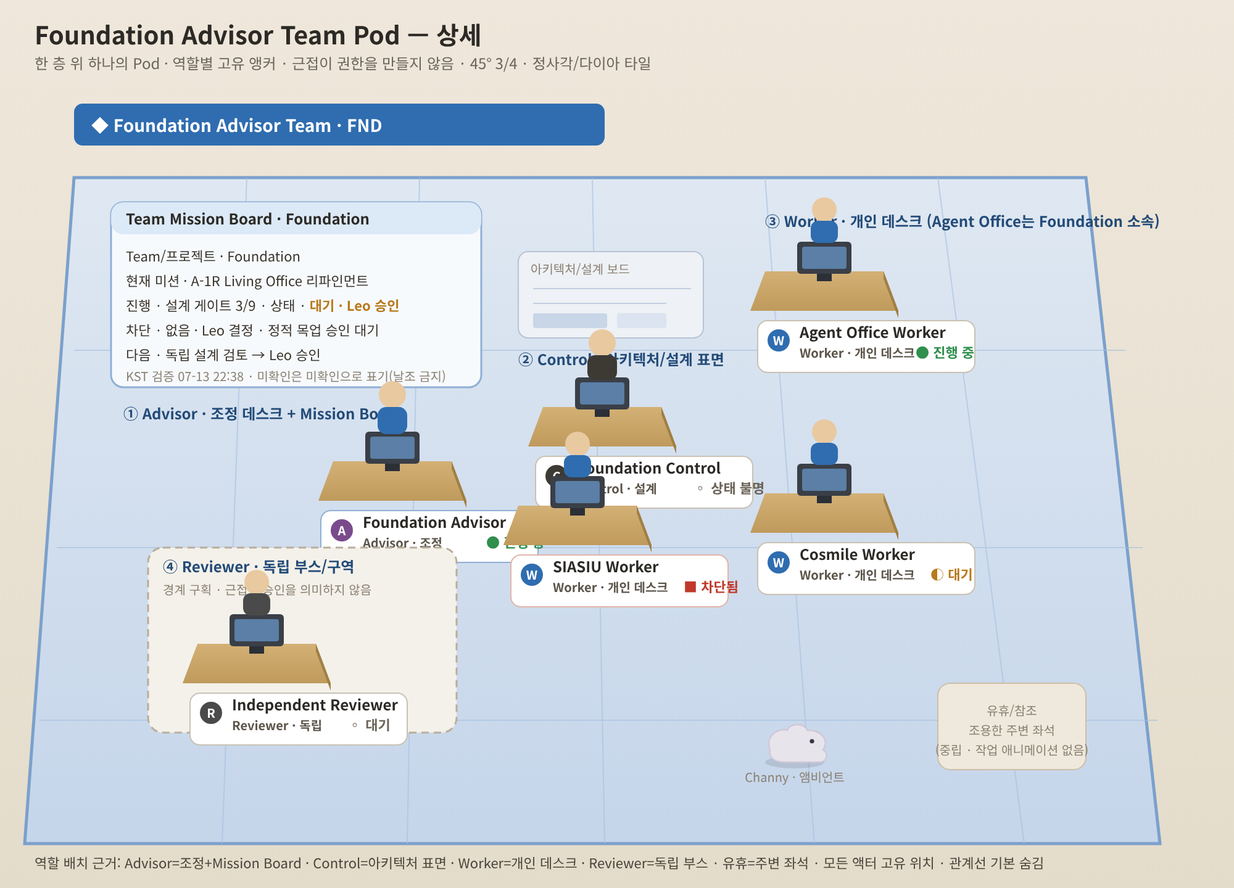
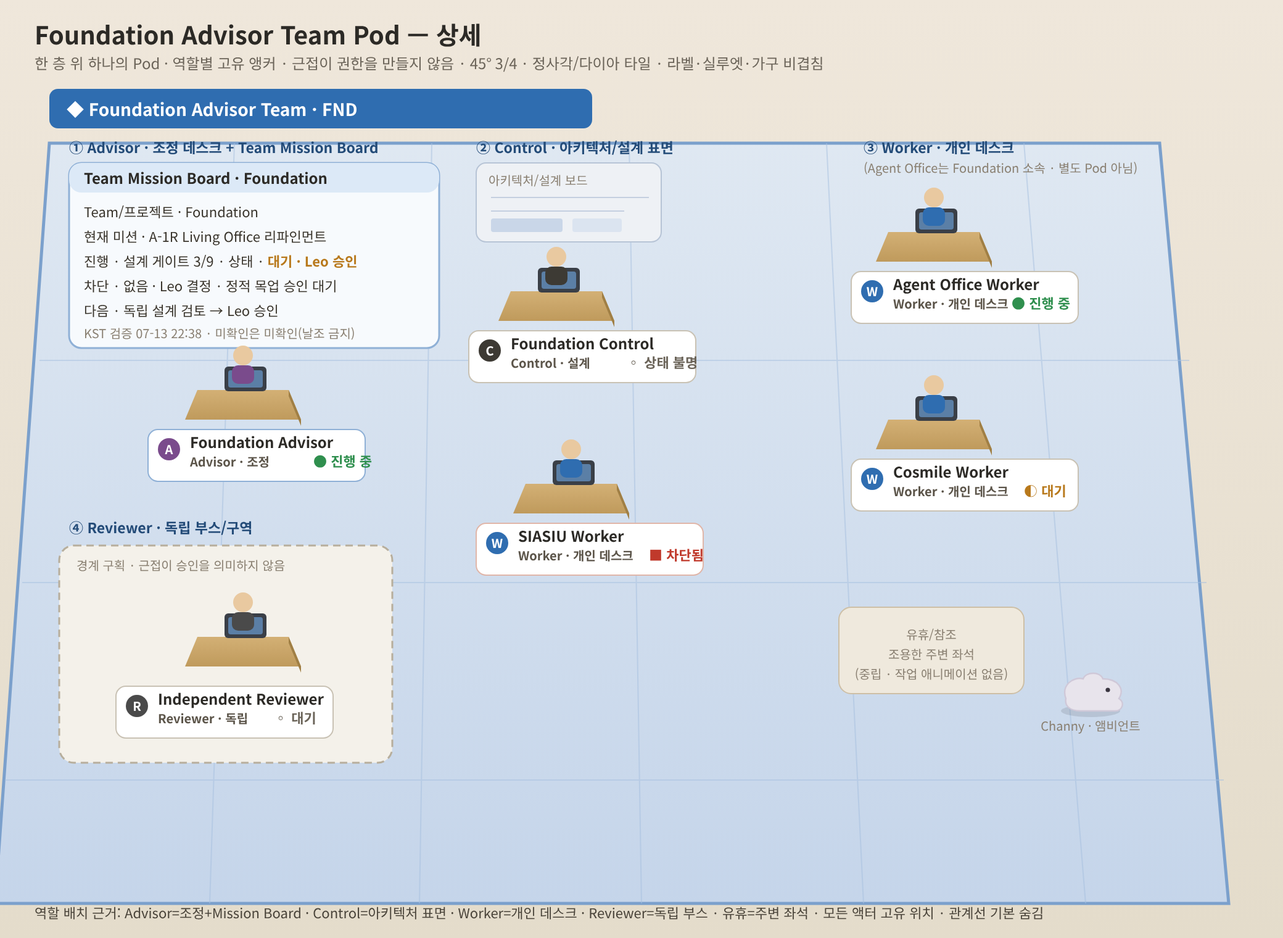
docs(a1r): narrow pre-review patch — Advisor findings A1R-ADV-01 + A1R-ADV-02 (design only)
A1R-ADV-01 (deferred-batch mapping): correct to the exact Founder activation table. A-1R scope now
= DCR-01 basic presentation + DCR-02 basic role animation (designed for later A-1R implementation
using only accepted fixture/evidence state, with neutral/reduced/static equivalents; NOT live
runtime-state integration). Real runtime-state-driven animation = Batch B; dynamic admission = C;
real Advisor delivery, live current-status response, Worker->Reviewer->Advisor movement, and
completion/handoff choreography = D; watchdog/retry = E; ambient sound = E-2. DELIVERY_DISABLED kept;
no runtime/implementation authority created. Updated register (rows + summary), product-experience
design doc, and FEATURE_INDEX.

A1R-ADV-02 (spatial collisions, only affected mockups): re-laid-out a1r-advisor-team-pod.svg into
three clear columns (Advisor+Mission Board / Control+SIASIU / Workers), anchor tags above zones not
over characters, all actor labels distinct from actor/monitor/desk silhouettes and neighbors,
Foundation Advisor clear of the Reviewer zone (canvas 1040x760). Re-laid-out a1r-full-office-mobile.svg
member lists to single-column full-width rows (name/role/state separated; Foundation Control and
Independent Reviewer no longer collide) and moved Channy to the empty lower floor. Re-rendered only
the two affected PNGs and inspected them at original size. Preserved all registry facts/actors/Team
[…]

diff --git a/docs/operations/AGENT_OFFICE_A1R_DEFERRED_CAPABILITY_REGISTER.md b/docs/operations/AGENT_OFFICE_A1R_DEFERRED_CAPABILITY_REGISTER.md
@@ -3,7 +3,7 @@
 Status: `CONTROL_STATIC_DEFERRED_REGISTER__PENDING_INDEPENDENT_DESIGN_REVIEW_THEN_LEO_MOCKUP_APPROVAL`
 Mode: `PRODUCT_EXPERIENCE_DESIGN_MODE`. Companion to the A-1R product-experience design and Founder UX contract. Base `58a484b`.
 
-**A-1R activates only role-specific basic presentation.** Every capability below is **deferred and gated**. A row's capability may not be built or enabled until its activation condition is met and Leo/GPT authorizes it. Forbidden current behavior is enforced now. No source/test/config change accompanies this register.
+**A-1R scope is role-specific basic presentation plus basic role animation** — the latter designed for the later A-1R Worker implementation using **only accepted fixture/evidence state** with **neutral/reduced/static equivalents**; this does **not** authorize live runtime-state integration (that is Batch B). Every other capability below is **deferred and gated** to the exact Founder activation table: dynamic admission = **C**; real Advisor delivery, live current-status response, Worker→Reviewer→Advisor movement, and completion/handoff choreography = **D**; operational Channy watchdog and bounded retry = **E**; ambient sound = **E-2**. A row's capability may not be built or enabled until its activation condition is met and Leo/GPT authorizes it. **`DELIVERY_DISABLED` is kept; this documentation correction creates no runtime or implementation authority.** Forbidden current behavior is enforced now. No source/test/config change accompanies this register.
 
 Legend — Current level: `NONE` (not present) · `STATIC_PRESENTATION` (neutral, non-operational visual only) · `DISABLED_SHELL` (truthful shell, action inert).
 
@@ -12,8 +12,8 @@ Legend — Current level: `NONE` (not present) · `STATIC_PRESENTATION` (neutral
 ## 1. Capability rows
 
 ### DCR-01 — Role-specific basic presentation
-- **Current level:** `STATIC_PRESENTATION` — **the only capability A-1R activates.**
-- **Deferred batch/reason:** not deferred (in scope); role anchors/desks/poses are static and evidence-neutral.
+- **Current level:** `STATIC_PRESENTATION` — **A-1R scope** (role anchors/desks/labels/poses), alongside DCR-02 basic role animation.
+- **Deferred batch/reason:** **A-1R** (in scope); role anchors/desks/poses are static and evidence-neutral.
 - **Early risk:** implying activity/authority from a pose. **Mitigation:** unknown = neutral; poses express only accepted role/state.
 - **Prerequisites:** committed registry + layout config.
 - **Owner:** Agent Office Worker (impl) under Advisor handoff after mockup approval.
@@ -22,14 +22,17 @@ Legend — Current level: `NONE` (not present) · `STATIC_PRESENTATION` (neutral
 - **Tests/evidence (later):** neutral-state rendering; no motion in reduced mode.
 - **Final authority:** Leo/GPT.
 
-### DCR-02 — Role animation (idle character motion)
-- **Current level:** `NONE`. **Deferred:** Batch B. **Reason:** motion must not imply un-evidenced activity.
-- **Early risk:** ambient motion read as work. **Prereq:** DCR-01 accepted; reduced-motion + non-color rules proven.
-- **Owner:** Worker. **Activation:** Batch B authorization + evidence that idle motion carries no state meaning.
-- **Forbidden now:** any looping role/idle animation in production default. **Tests (later):** reduced-motion stop; state-independence. **Authority:** Leo/GPT.
+### DCR-02 — Basic role animation (fixture/evidence-driven; **A-1R scope**)
+- **Current level:** `STATIC_PRESENTATION` (designed now; **implemented later in the A-1R Worker pass**, not live).
+- **Deferred batch/reason:** **A-1R** (Founder: "role-specific basic animation implemented in A-1R"). It is driven **only by accepted fixture/evidence state**, with **neutral/reduced/static equivalents**; it is **not** live runtime-state integration (that is DCR-03/Batch B).
+- **Early risk:** ambient motion read as un-evidenced work. **Mitigation:** motion expresses only accepted role/state; unknown stays neutral; reduced-motion stops it; non-color meaning preserved.
+- **Prerequisites:** DCR-01 accepted; committed registry + accepted-evidence fixtures.
+- **Owner:** Agent Office Worker under Advisor handoff after mockup approval.
+- **Activation condition:** design-review `PASS` + Leo mockup approval (same A-1R implementation gate as DCR-01).
+- **Forbidden now:** any live-runtime-driven motion; celebratory/pre-verdict poses; motion in reduced mode. **Tests (later):** motion only from accepted fixture/evidence; reduced-motion stop; static/semantic equivalence. **Authority:** Leo/GPT.
 
-### DCR-03 — Runtime/operational-state-driven animation
-- **Current level:** `NONE`. **Deferred:** Batch B (A1R-U04). **Reason:** state→motion mapping needs accepted evidence + safety.
+### DCR-03 — Real runtime-state-driven animation (live integration)
+- **Current level:** `NONE`. **Deferred:** **Batch B** (A1R-U04). **Reason:** live state→motion mapping needs a verified source + safety (distinct from DCR-02's fixture/evidence animation).
 - **Early risk:** motion outrunning verified state; leaking exact activity. **Prereq:** DCR-02; accepted operational-state contract.
 - **Owner:** Worker. **Activation:** Batch B + verified state-source. **Forbidden now:** any state-conditioned animation. **Tests (later):** motion only on accepted evidence; unknown stays neutral. **Authority:** Leo/GPT.
 
@@ -39,24 +42,24 @@ Legend — Current level: `NONE` (not present) · `STATIC_PRESENTATION` (neutral
 - **Owner:** Worker + Advisor. **Activation:** Batch C + Leo. **Forbidden now:** any non-committed actor/Team; Team inference; Agent Office Pod. **Tests (later):** registry-only membership. **Authority:** Leo/GPT.
 
 ### DCR-05 — Real Advisor delivery (send/dispatch)
-- **Current level:** `DISABLED_SHELL` (`DELIVERY_DISABLED`). **Deferred:** technical-evidence-gated (A1R-U03). **Reason:** delivery touches authority/security/routing/audit.
+- **Current level:** `DISABLED_SHELL` (`DELIVERY_DISABLED`). **Deferred:** **Batch D** — unless **unchanged approved reuse** of existing delivery is proven with literally zero authority/security/routing/audit change (A1R-U03). **Reason:** delivery touches authority/security/routing/audit.
 - **Early risk:** browser-direct Worker/Reviewer dispatch; audit/route change. **Prereq:** direct evidence of **literally zero change** to authority, security, routing, audit, command target, and the browser-direct prohibition.
-- **Owner:** Advisor + Worker + independent review. **Activation:** proven zero-change compatibility + Leo. **Forbidden now:** any real send; input unlocked; browser→agent instruction. **Tests (later):** zero-change compatibility proof. **Authority:** Leo/GPT.
+- **Owner:** Advisor + Worker + independent review. **Activation:** Batch D + proven zero-change compatibility (or proven unchanged reuse) + Leo. **Forbidden now:** any real send; input unlocked; browser→agent instruction. **Tests (later):** zero-change compatibility proof. **Authority:** Leo/GPT.
 
-### DCR-06 — Live status response (real-time actor state)
-- **Current level:** `STATIC_PRESENTATION` (committed fixture/accepted-evidence state only). **Deferred:** Batch B. **Reason:** live feed needs a verified source + fail-closed staleness.
+### DCR-06 — Live current-status response (real-time actor state)
+- **Current level:** `STATIC_PRESENTATION` (committed fixture/accepted-evidence state only). **Deferred:** **Batch D**. **Reason:** a live status feed needs a verified source + fail-closed staleness and is an operational integration.
 - **Early risk:** fabricated/stale state shown as current. **Prereq:** verified live source; KST-from-verified-UTC only; STALE→sentinel.
-- **Owner:** Worker. **Activation:** Batch B + verified source. **Forbidden now:** live polling/inference; fabricated KST. **Tests (later):** STALE fail-closed; no fabrication. **Authority:** Leo/GPT.
+- **Owner:** Worker. **Activation:** Batch D + verified source + Leo. **Forbidden now:** live polling/inference; fabricated KST. **Tests (later):** STALE fail-closed; no fabrication. **Authority:** Leo/GPT.
 
-### DCR-07 — Handoff movement (actor/task travel)
-- **Current level:** `NONE`. **Deferred:** Batch B. **Reason:** movement implies routing/authority.
-- **Early risk:** motion implying command/handoff not evidenced. **Prereq:** DCR-03; accepted handoff evidence.
-- **Owner:** Worker. **Activation:** Batch B + evidence. **Forbidden now:** any inter-actor movement animation. **Tests (later):** movement only on accepted handoff. **Authority:** Leo/GPT.
+### DCR-07 — Worker→Reviewer→Advisor movement (handoff travel)
+- **Current level:** `NONE`. **Deferred:** **Batch D**. **Reason:** movement implies routing/authority.
+- **Early risk:** motion implying command/handoff not evidenced. **Prereq:** accepted handoff evidence.
+- **Owner:** Worker. **Activation:** Batch D + evidence + Leo. **Forbidden now:** any inter-actor movement animation. **Tests (later):** movement only on accepted handoff. **Authority:** Leo/GPT.
 
-### DCR-08 — Completion choreography
-- **Current level:** `NONE`. **Deferred:** Batch B. **Reason:** celebration must follow a verified verdict, never precede it.
+### DCR-08 — Real completion and handoff choreography
+- **Current level:** `NONE`. **Deferred:** **Batch D**. **Reason:** celebration must follow a verified verdict, never precede it.
 - **Early risk:** celebratory pose before verified completion/verdict. **Prereq:** accepted completion evidence.
-- **Owner:** Worker. **Activation:** Batch B + verified verdict source. **Forbidden now:** any completion/celebration animation. **Tests (later):** no pre-verdict celebration. **Authority:** Leo/GPT.
+- **Owner:** Worker. **Activation:** Batch D + verified verdict source + Leo. **Forbidden now:** any completion/celebration animation. **Tests (later):** no pre-verdict celebration. **Authority:** Leo/GPT.
 
 ### DCR-09 — Recovery / Channy watchdog
 - **Current level:** `NONE`. **Deferred:** Batch E (A1R-U06). **Reason:** recovery is operational authority.
@@ -79,16 +82,16 @@ Legend — Current level: `NONE` (not present) · `STATIC_PRESENTATION` (neutral
 
 | ID | Capability | Level | Batch | Activation gate |
 |---|---|---|---|---|
-| DCR-01 | Role-specific basic presentation | STATIC_PRESENTATION | A-1R | design PASS + Leo mockup approval |
-| DCR-02 | Role animation | NONE | B | Batch B + no-state-meaning evidence |
-| DCR-03 | Runtime-driven animation | NONE | B (A1R-U04) | Batch B + verified state source |
-| DCR-04 | Dynamic Team/actor admission | NONE | C (A1R-U05) | Batch C + Leo |
-| DCR-05 | Real Advisor delivery | DISABLED_SHELL | evidence-gated (A1R-U03) | zero-change proof + Leo |
-| DCR-06 | Live status response | STATIC_PRESENTATION | B | Batch B + verified source |
-| DCR-07 | Handoff movement | NONE | B | Batch B + accepted handoff |
-| DCR-08 | Completion choreography | NONE | B | Batch B + verified verdict |
-| DCR-09 | Recovery / Channy watchdog | NONE | E (A1R-U06) | Batch E + explicit Leo authority |
-| DCR-10 | Bounded retry | NONE | E | Batch E + Leo |
-| DCR-11 | Ambient sound | NONE | E-2 opt-in | E-2 + Leo + opt-in |
+| DCR-01 | Role-specific basic presentation | STATIC_PRESENTATION | **A-1R** | design PASS + Leo mockup approval |
+| DCR-02 | Basic role animation (fixture/evidence) | STATIC_PRESENTATION | **A-1R** | design PASS + Leo mockup approval (fixture/evidence only; neutral/reduced/static; not live) |
+| DCR-03 | Real runtime-state-driven animation | NONE | **B** (A1R-U04) | Batch B + verified live state source |
+| DCR-04 | Dynamic Team/actor admission | NONE | **C** (A1R-U05) | Batch C + Leo |
+| DCR-05 | Real Advisor delivery | DISABLED_SHELL | **D** | Batch D + zero-change proof (or proven unchanged reuse) + Leo (A1R-U03) |
+| DCR-06 | Live current-status response | STATIC_PRESENTATION | **D** | Batch D + verified source + Leo |
+| DCR-07 | Worker→Reviewer→Advisor movement | NONE | **D** | Batch D + accepted handoff + Leo |
+| DCR-08 | Real completion/handoff choreography | NONE | **D** | Batch D + verified verdict + Leo |
+| DCR-09 | Recovery / Channy watchdog | NONE | **E** (A1R-U06) | Batch E + explicit Leo authority |
+| DCR-10 | Bounded retry | NONE | **E** | Batch E + Leo |
+| DCR-11 | Ambient sound | NONE | **E-2** opt-in | E-2 + Leo + opt-in |
 
-Batch B–E and E-2 remain **gated**. A-1R activates only DCR-01. Final authority for every row is **Leo/GPT**.
+**A-1R scope = DCR-01 (basic presentation) + DCR-02 (basic role animation, fixture/evidence-driven, neutral/reduced/static equivalents; not live).** Batch B (real runtime-state-driven animation), C (dynamic admission), D (real delivery, live current-status response, movement, completion/handoff choreography), E (watchdog, retry), and E-2 (ambient sound) remain **gated**. Final authority for every row is **Leo/GPT**.

diff --git a/docs/FEATURE_INDEX.md b/docs/FEATURE_INDEX.md
@@ -237,7 +237,7 @@ baselines. No real credential or private run was created.
 | [`operations/AGENT_OFFICE_BATCH_A_IMPLEMENTATION_WORKUNIT_PLAN.md`](operations/AGENT_OFFICE_BATCH_A_IMPLEMENTATION_WORKUNIT_PLAN.md) | Batch A `BA-WU-01..09` dependency order, per-unit source/tests/gate/rollback, gate set, and exact completion criteria (design only; grants no implementation authority) |
 | [`architecture/AGENT_OFFICE_A1R_LIVING_OFFICE_PRODUCT_EXPERIENCE_DESIGN.md`](architecture/AGENT_OFFICE_A1R_LIVING_OFFICE_PRODUCT_EXPERIENCE_DESIGN.md) | A-1R Living Office product-experience design (static): Space→Behavior→Information→Technology; registry-derived separated Foundation/VibeNews Pods on one floor (Agent Office = Foundation member, no Pod); compact default label + layered disclosure replacing the 244×180 seven-fact card; Channy non-operational; requirement traceability; rationale from product use (base `58a484b`; design only) |
 | [`contracts/AGENT_OFFICE_A1R_FOUNDER_UX_CONTRACT.md`](contracts/AGENT_OFFICE_A1R_FOUNDER_UX_CONTRACT.md) | A-1R Founder UX Contract (enforceable, static): space/label/disclosure/critical-state/interaction/Korean-first/Mission-Board/Advisor-`DELIVERY_DISABLED`/Channy/accessibility rules; superseded first-layer + preserved boundaries; later implementation gates (grants no implementation authority) |
-| [`operations/AGENT_OFFICE_A1R_DEFERRED_CAPABILITY_REGISTER.md`](operations/AGENT_OFFICE_A1R_DEFERRED_CAPABILITY_REGISTER.md) | A-1R deferred capability register: DCR-01..11 (role/runtime animation, dynamic admission, real delivery, live status, handoff movement, completion choreography, recovery/Channy watchdog, bounded retry, ambient sound) with level/batch/reason/risk/prereq/owner/activation/forbidden/tests/authority; A-1R activates only DCR-01 |
+| [`operations/AGENT_OFFICE_A1R_DEFERRED_CAPABILITY_REGISTER.md`](operations/AGENT_OFFICE_A1R_DEFERRED_CAPABILITY_REGISTER.md) | A-1R deferred capability register: DCR-01..11 with level/batch/reason/risk/prereq/owner/activation/forbidden/tests/authority per the Founder activation table — A-1R scope = DCR-01 basic presentation + DCR-02 basic role animation (fixture/evidence, neutral/reduced/static); real runtime-state animation = B; dynamic admission = C; real delivery/live status/movement/completion choreography = D; watchdog/retry = E; ambient sound = E-2 |
 | [`ui/a1r/AGENT_OFFICE_A1R_STATIC_MOCKUP_SPEC.md`](ui/a1r/AGENT_OFFICE_A1R_STATIC_MOCKUP_SPEC.md) | A-1R static mockup spec: five SVG design sources + full-size PNG evidence (full desktop 1440×900 + Leo 1512×619 reflow, full mobile 390×844, Advisor Team Pod detail, information/interaction states, Channy poses); registry-derived; format A1R-U07 |
 | `docs/FEATURE_INDEX.md` | Discoverability, critical traceability, batch/review coverage, current truth, gates |
 
@@ -251,7 +251,7 @@ The bounded Batch A application-integration design (three documents above) integ
 
 ### 2.2 A-1R Living Office experience-refinement design pointer
 
-Status: `A1R_CONTROL_STATIC_PRODUCT_EXPERIENCE_DESIGN__PENDING_INDEPENDENT_DESIGN_REVIEW_THEN_LEO_MOCKUP_APPROVAL`. Bounded `PRODUCT_EXPERIENCE_DESIGN_MODE` static package (base `58a484b`; branch `a1r/living-office-experience-refinement-001`) correcting the in-scope Batch A defect that the real default Living Office reads as a debug-like spatial dashboard (oversized 244×180 cards over actors/furniture, seven always-visible technical facts truncated, ambient connector lines, clustered actors, one card escaping the boundary, empty lower floor — confirmed against `living-office-actor-overlay.tsx:34-35,55-65` and Leo capture `clip-20260713-223828.png`). The design: one shared 45°/diamond floor with **registry-derived, spatially separated** Foundation and VibeNews Advisor Team Pods (two Teams only; **Agent Office is a Foundation member, not a Pod**); role anchors (Advisor coordination + Mission Board, Control architecture surface, per-Worker desks, Reviewer independent booth, idle peripheral seat); a **compact default label** (name/role/Team/critical-state only) with **layered disclosure** (hover quick card → exactly-one pinned card → full 17-field drawer; mobile bottom sheet); **relationship lines hidden by default**; Korean-first UI with exact technical IDs; Team Mission Boards with KST-from-verified-UTC (no fabrication); Advisor selection/transcript/notification shell in the Living Office **`DELIVERY_DISABLED`**, input-locked; recognizable **non-operational Channy** Bedlington; collapsed ordinary semantic list with preserved screen-reader parity; reduced-motion/non-color/high-text/static equivalence; and a deferred-capability register (DCR-01..11, A-1R activates only DCR-01). Five SVG + full-size PNG mockups. **Design only:** no source/test/config/package/dependency change, no clickable prototype, no delivery activation, no Team/authority change, no Batch B–E. The prior always-visible seven/nine-field first-layer contract and its five test reworks are **SUPERSEDED**; registry truth/identity separation/fail-closed/provenance/full-drawer/Technical-Dashboard-secondary boundaries are **preserved**. Continuation: independent design-contract review, then **Leo static mockup approval** (aesthetic decision is Leo's alone); Worker implementation is forbidden before both design-review `PASS` and Leo approval.
+Status: `A1R_CONTROL_STATIC_PRODUCT_EXPERIENCE_DESIGN__PENDING_INDEPENDENT_DESIGN_REVIEW_THEN_LEO_MOCKUP_APPROVAL`. Bounded `PRODUCT_EXPERIENCE_DESIGN_MODE` static package (base `58a484b`; branch `a1r/living-office-experience-refinement-001`) correcting the in-scope Batch A defect that the real default Living Office reads as a debug-like spatial dashboard (oversized 244×180 cards over actors/furniture, seven always-visible technical facts truncated, ambient connector lines, clustered actors, one card escaping the boundary, empty lower floor — confirmed against `living-office-actor-overlay.tsx:34-35,55-65` and Leo capture `clip-20260713-223828.png`). The design: one shared 45°/diamond floor with **registry-derived, spatially separated** Foundation and VibeNews Advisor Team Pods (two Teams only; **Agent Office is a Foundation member, not a Pod**); role anchors (Advisor coordination + Mission Board, Control architecture surface, per-Worker desks, Reviewer independent booth, idle peripheral seat); a **compact default label** (name/role/Team/critical-state only) with **layered disclosure** (hover quick card → exactly-one pinned card → full 17-field drawer; mobile bottom sheet); **relationship lines hidden by default**; Korean-first UI with exact technical IDs; Team Mission Boards with KST-from-verified-UTC (no fabrication); Advisor selection/transcript/notification shell in the Living Office **`DELIVERY_DISABLED`**, input-locked; recognizable **non-operational Channy** Bedlington; collapsed ordinary semantic list with preserved screen-reader parity; reduced-motion/non-color/high-text/static equivalence; and a deferred-capability register (DCR-01..11 mapped to the Founder activation table — A-1R scope = DCR-01 basic presentation + DCR-02 basic role animation (fixture/evidence, neutral/reduced/static, not live); runtime-state animation = B; dynamic admission = C; real delivery/live status/movement/completion = D; watchdog/retry = E; sound = E-2). Five SVG + full-size PNG mockups. **Design only:** no source/test/config/package/dependency change, no clickable prototype, no delivery activation, no Team/authority change, no Batch B–E. The prior always-visible seven/nine-field first-layer contract and its five test reworks are **SUPERSEDED**; registry truth/identity separation/fail-closed/provenance/full-drawer/Technical-Dashboard-secondary boundaries are **preserved**. Continuation: independent design-contract review, then **Leo static mockup approval** (aesthetic decision is Leo's alone); Worker implementation is forbidden before both design-review `PASS` and Leo approval.
 
 ### 2.1 M1.2 product-intent and living pixel-office pointer
 

diff --git a/docs/ui/a1r/AGENT_OFFICE_A1R_STATIC_MOCKUP_SPEC.md b/docs/ui/a1r/AGENT_OFFICE_A1R_STATIC_MOCKUP_SPEC.md
@@ -15,7 +15,7 @@ All actor content is **registry-derived** (`src/application/organization/registr
 |---|---|---|---|
 | `mockups/a1r-full-office-desktop.svg` / `.png` | 1440 × 900 | 2880 × 1800 | Whole shared office at the normal 1440×900 canvas **and** an inset reflow at Leo's wide/short 1512×619 capture shape. Two spatially separated Team Pods on one floor; Foundation (larger, left) with 6 members incl. Agent Office; VibeNews (right) with 2. Mission Boards, compact Korean labels, one hover quick card, disabled Advisor chat dock, Channy, collapsed agent-list control. (Founder 1, 9, 10; Space S-1..S-6) |
 | `mockups/a1r-full-office-mobile.svg` / `.png` | 390 × 844 | 780 × 1688 | Full mobile Living Office: stacked separated Pods, collapsed agent list, and the compact **bottom sheet** with `상세 보기`. (Founder 2, 8; I-6) |
-| `mockups/a1r-advisor-team-pod.svg` / `.png` | 1000 × 720 | 2000 × 1440 | Detailed Foundation Pod: role anchors (① Advisor coordination desk + Mission Board, ② Control architecture surface, ③ Worker individual desks, ④ Reviewer independent booth, idle peripheral seat, Channy), 45°/diamond tiles, consistent furniture depth. (Founder 3; S-4, S-5) |
+| `mockups/a1r-advisor-team-pod.svg` / `.png` | 1040 × 760 | 2080 × 1520 | Detailed Foundation Pod (re-laid-out to three clear columns — no label/silhouette/furniture collisions): role anchors (① Advisor coordination desk + Mission Board, ② Control architecture surface, ③ Worker individual desks, ④ Reviewer independent booth, idle peripheral seat, Channy), 45°/diamond tiles, consistent furniture depth. (Founder 3; S-4, S-5) |
 | `mockups/a1r-information-interaction-states.svg` / `.png` | 1200 × 880 | 2400 × 1760 | Layered information: ① compact label → ② hover quick card → ③ pinned card (exactly one) → ④ full 17-field drawer → ⑤ mobile bottom sheet; the eight critical-state badges; interaction rules; reduced/static/high-text/semantic equivalence. (Founder 4–8, 11, 13; L/D/C/I contract) |
 | `mockups/a1r-channy-character-poses.svg` / `.png` | 960 × 620 | 1920 × 1240 | Channy Bedlington silhouette features, scale vs actor, ambient poses (walk/patrol, sniff, head-tilt, light-scratch/curiosity, eat, drink, sleep/rest, affectionate, neutral idle), and the non-operational authority boundary. (Founder 12; CH-1) |
 | `../../FEATURE_INDEX.md` | — | — | Pointer/status entry for the A-1R static design package. |

diff --git a/docs/architecture/AGENT_OFFICE_A1R_LIVING_OFFICE_PRODUCT_EXPERIENCE_DESIGN.md b/docs/architecture/AGENT_OFFICE_A1R_LIVING_OFFICE_PRODUCT_EXPERIENCE_DESIGN.md
@@ -56,7 +56,7 @@ Empty lower floor is reduced: Pods and a peripheral band (plants, corridor, Chan
 
 - **Unknown state is neutral**, never active-work animation. A missing observation never asserts activity, offline, or no-process.
 - Actor poses express **only accepted role/state evidence**. No celebratory Reviewer pose precedes a verified verdict. Monitor motion exposes **no secret, source, or unsupported exact activity**.
-- A-1R activates **only role-specific basic presentation**. Operational-state-driven animation, runtime-driven animation, handoff movement, completion choreography, and Channy watchdog/retry are **deferred** (register + A1R-U04/U06).
+- **A-1R scope = role-specific basic presentation + basic role animation** (the latter driven **only by accepted fixture/evidence state**, with neutral/reduced/static equivalents; **not** live runtime-state integration). Deferred per the Founder activation table (register): **real runtime-state-driven animation = Batch B**; dynamic Team/actor admission = **C**; real Advisor delivery, live current-status response, Worker→Reviewer→Advisor movement, and completion/handoff choreography = **D**; operational Channy watchdog and bounded retry = **E**; ambient sound = **E-2**. `DELIVERY_DISABLED` is kept; this design grants no implementation or runtime authority.
 - **Channy** is a recognizable **Bedlington Terrier** at appropriate scale (~knee height / ~1.2 tiles), placed on the quiet periphery, with ambient walk/patrol/sniff/head-tilt/light-scratch/eat/drink/sleep/affectionate poses. Channy has **no authority** and cannot classify interruption, send tmux input, continue/retry/recover, approve, or handle capacity/billing/credential/DB/production/Git risk. Reduced motion stops all ambient motion. See `mockups/a1r-channy-character-poses.svg`.
 
 ---
